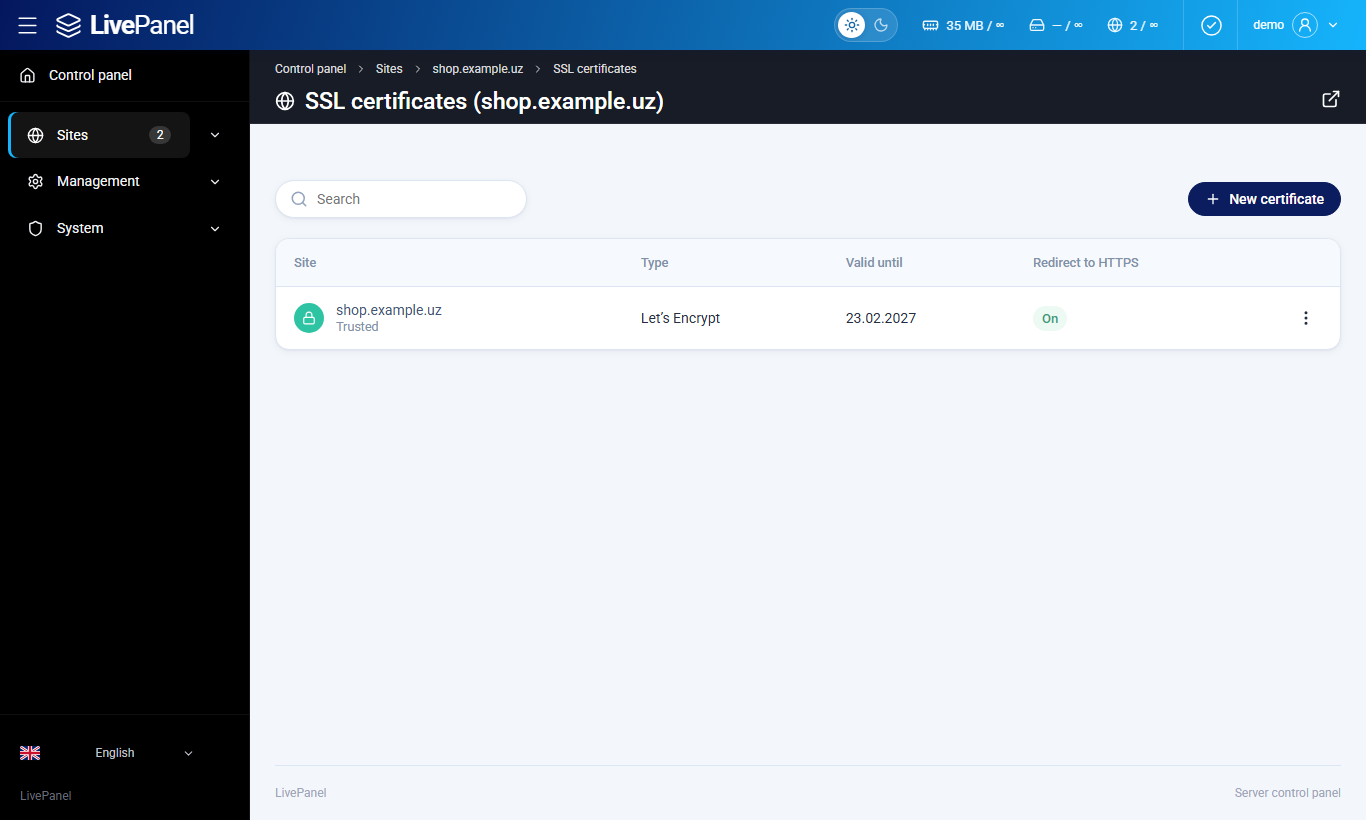
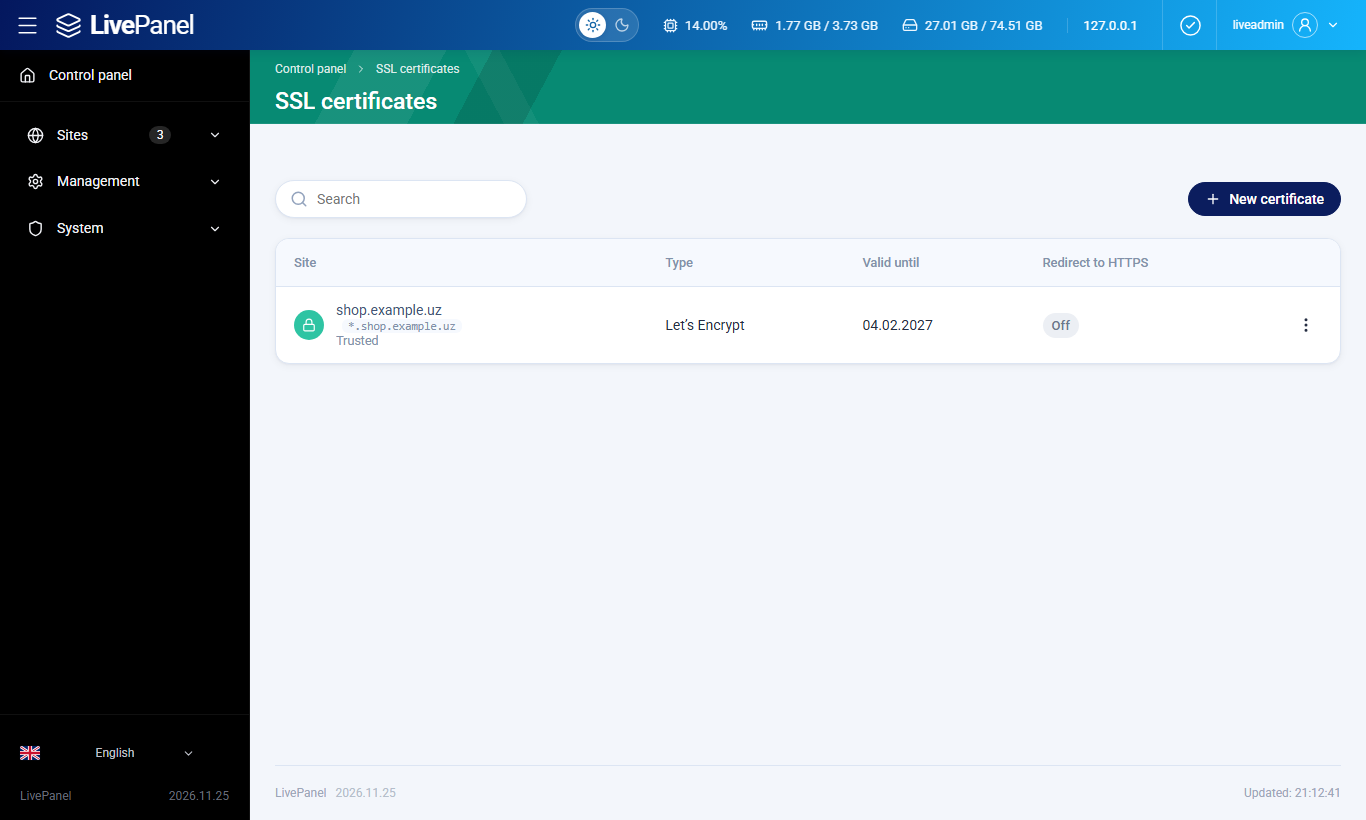
What's new page; wildcard SSL and DNSSEC pictures; license key protection; new API tokens picture

diff --git a/ru/whats-new.md b/ru/whats-new.md
@@ -1,0 +1,26 @@
+# Что нового
+
+LivePanel обновляется автоматически (проверка каждые 6 часов и при входе администратора). Номер версии — дата и время (UTC): `YYYY.MM.DD.HHMM`. Текущая версия видна внизу меню панели. Здесь последние изменения — новые сверху.
+
+## 2026.11.26.1605 — Статистика сайта
+
+- **Отчёт о посещениях** (GoAccess) снова открывается: раньше страница бесконечно показывала загрузку. Отчёт по-прежнему открывается изолированно от панели (sandbox) — [Статистика](statistics.md).
+
+## 2026.11.26.1523 — Wildcard SSL и DNSSEC
+
+- **Wildcard SSL (Premium)** — один сертификат Let’s Encrypt для домена и всех поддоменов (`example.uz` + `*.example.uz`). Панель сама добавляет и удаляет проверочную TXT-запись в DNS-зоне, сертификат продлевается автоматически — [SSL-сертификаты](ssl.md#wildcard-сертификат-premium).
+- **DNSSEC** — зона подписывается, панель показывает DS-запись для регистратора — [Домены и DNS](dns.md#dnssec).
+- API v2: `wildcard` в `POST /sites/ssl`, действие `dnssec` в `POST /dns` — [API v2](api-reference.md).
+
+## 2026.11.26.0718 — Защита лицензии
+
+- Ключ Free не может заменить активную лицензию Premium (`409 license_not_better`); для одного тарифа остаётся более долгий.
+- Убрана неработавшая «активация по коду»: платные ключи приходят сами после оплаты — [Лицензия и тарифы](license.md#как-защищены-ключи-лицензии).
+- livepanel.uz отдаёт ключ только серверу — владельцу лицензии.
+
+## 2026.11.25 — API v2
+
+- **API v2 (Premium)**: почти все возможности панели через API — сайты, файлы, базы, DNS, почта, FTP, cron, резервные копии, Git, аккаунты, лимиты, брендинг и сервер. 13 разделов, для каждого права «чтение» и «запись» — [API-токены](api-tokens.md), [Справочник API v2](api-reference.md).
+- Примеры на PHP, Node.js и Bash, файл OpenAPI: [openapi.json](https://wiki.livepanel.uz/openapi.json). Чтобы отдать документацию ИИ, на каждой странице есть кнопка «Копировать для ИИ» и ссылка `.md`.
+- Файловый менеджер: создание существующей папки отвечает `file_exists`; при загрузке `overwrite=1` заменяет файл.
+- Подключение резервного хранилища (Google Drive, Dropbox) возвращается только на собственный адрес панели.

diff --git a/uz/whats-new.md b/uz/whats-new.md
@@ -1,0 +1,26 @@
+# Yangiliklar
+
+LivePanel o‘zini avtomatik yangilaydi (har 6 soatda tekshiradi, administrator kirganda ham). Versiya raqami — sana va vaqt (UTC): `YYYY.MM.DD.HHMM`. Joriy versiya panel menyusining pastida ko‘rinadi. Bu sahifada oxirgi o‘zgarishlar — yangisi tepada.
+
+## 2026.11.26.1605 — Sayt statistikasi
+
+- **Tashriflar hisoboti** (GoAccess) yana ochiladi: oldin sahifa doim «yuklanmoqda» holatida qolardi. Hisobot avvalgidek paneldan ajratilgan (sandbox) holda ochiladi — [Statistika](statistics.md).
+
+## 2026.11.26.1523 — Wildcard SSL va DNSSEC
+
+- **Wildcard SSL (Premium)** — domen va barcha subdomenlari uchun bitta Let’s Encrypt sertifikati (`example.uz` + `*.example.uz`). Panel tekshiruv TXT yozuvini DNS zonasiga o‘zi qo‘shadi va o‘chiradi, sertifikat avtomatik yangilanadi — [SSL sertifikatlar](ssl.md#wildcard-sertifikat-premium).
+- **DNSSEC** — zona imzolanadi, panel registratorga qo‘yiladigan DS yozuvini ko‘rsatadi — [Domenlar va DNS](dns.md#dnssec).
+- API v2: `POST /sites/ssl` da `wildcard`, `POST /dns` da `dnssec` amali — [API v2](api-reference.md).
+
+## 2026.11.26.0718 — Litsenziya himoyasi
+
+- Free kaliti faol Premium litsenziyani almashtira olmaydi (`409 license_not_better`); bir tarifda muddati uzunrog‘i qoladi.
+- Ishlamaydigan «kod bilan faollashtirish» olib tashlandi: pullik kalitlar to‘lovdan keyin o‘zi keladi — [Litsenziya va tariflar](license.md#litsenziya-kalitlari-qanday-himoyalangan).
+- livepanel.uz kalitni faqat litsenziya egasi bo‘lgan serverga beradi.
+
+## 2026.11.25 — API v2
+
+- **API v2 (Premium)**: paneldagi deyarli hamma imkoniyat API orqali — saytlar, fayllar, bazalar, DNS, pochta, FTP, cron, zaxira, Git, akkauntlar, limitlar, brending va server. 13 bo‘lim, har biri uchun «o‘qish» va «yozish» ruxsati — [API tokenlar](api-tokens.md), [API v2 ma’lumotnomasi](api-reference.md).
+- PHP, Node.js va Bash misollari, OpenAPI fayli: [openapi.json](https://wiki.livepanel.uz/openapi.json). Hujjatni sun’iy intellektga berish uchun har sahifada «AI uchun nusxalash» tugmasi va `.md` havolasi bor.
+- Fayl menejeri: mavjud papka yaratilsa `file_exists`; yuklashda `overwrite=1` bilan faylni almashtirish mumkin.
+- Zaxira (Google Drive, Dropbox) ulanishi faqat panelning o‘z manziliga qaytadi.

diff --git a/ru/license.md b/ru/license.md
@@ -12,6 +12,7 @@
 | Сайты, базы, почта, SSL, резервные копии, Git и все основные функции | ✅ | ✅ | ✅ |
 | Лимиты аккаунтов: домены, диск, RAM, базы, пользователи реселлера | — | ✅ | ✅ |
 | API автоматизации хостинга (токены) | — | — | ✅ |
+| Wildcard SSL-сертификат (`*.домен`) | — | — | ✅ |
 
 Актуальные цены: [livepanel.uz](https://livepanel.uz) → **Тарифы**.
 
@@ -29,6 +30,12 @@
 3. После оплаты лицензия **устанавливается в панель автоматически** — ключ вводить не нужно. Панель также сама получит её в течение нескольких минут.
 
 Лицензию можно смотреть, продлевать и управлять ею в разделе **Ключи** личного кабинета livepanel.uz.
+
+## Как защищены ключи лицензии
+
+- **Ввода ключа или активации по коду нет.** Платная лицензия после оплаты сама приходит в панель с livepanel.uz; панель также сама запрашивает её в течение нескольких минут. Кнопка в панели активирует только тариф **Free**.
+- **Младший тариф не заменяет старший.** Если в панели активен Premium, ключ Free или Pro не может его заменить (панель ответит «У панели уже есть лицензия лучше»). Для одного тарифа остаётся ключ с более долгим сроком.
+- **Ключ выдаётся только своему серверу.** livepanel.uz отдаёт ключ только на IP-адрес сервера, к которому привязана лицензия, или на адрес сервера, указанный при покупке. Знания ID установки для получения ключа недостаточно.
 
 ## Когда срок заканчивается
 

diff --git a/en/whats-new.md b/en/whats-new.md
@@ -1,0 +1,26 @@
+# What’s new
+
+LivePanel updates itself (it checks every 6 hours and when an administrator signs in). The version number is the date and time (UTC): `YYYY.MM.DD.HHMM`. The current version is shown at the bottom of the panel menu. This page lists the latest changes, newest first.
+
+## 2026.11.26.1605 — Site statistics
+
+- The **visitor report** (GoAccess) opens again: before, the page kept showing the loading spinner. The report still opens isolated from the panel (sandbox) — [Statistics](statistics.md).
+
+## 2026.11.26.1523 — Wildcard SSL and DNSSEC
+
+- **Wildcard SSL (Premium)** — one Let’s Encrypt certificate for the domain and all its subdomains (`example.uz` + `*.example.uz`). The panel adds and removes the check TXT record in the DNS zone itself; the certificate renews by itself — [SSL certificates](ssl.md#wildcard-certificate-premium).
+- **DNSSEC** — the zone is signed and the panel shows the DS record for the registrar — [Domains and DNS](dns.md#dnssec).
+- API v2: `wildcard` in `POST /sites/ssl`, the `dnssec` action of `POST /dns` — [API v2](api-reference.md).
+
+## 2026.11.26.0718 — License protection
+
+- A Free key cannot replace an active Premium license (`409 license_not_better`); within a plan the longer key stays.
+- The “activate with a code” path, which never worked, is gone: paid keys arrive by themselves after payment — [License and plans](license.md#how-license-keys-are-protected).
+- livepanel.uz hands a key only to the server that owns the license.
+
+## 2026.11.25 — API v2
+
+- **API v2 (Premium)**: almost everything the panel does, through the API — sites, files, databases, DNS, mail, FTP, cron, backups, Git, accounts, limits, branding and the server. 13 areas, each with “read” and “write” permissions — [API tokens](api-tokens.md), [API v2 reference](api-reference.md).
+- PHP, Node.js and Bash examples and an OpenAPI file: [openapi.json](https://wiki.livepanel.uz/openapi.json). To hand the docs to an AI, every page has a “Copy for AI” button and a `.md` link.
+- File manager: creating a folder that exists answers `file_exists`; uploads replace a file with `overwrite=1`.
+- Backup storage sign-in (Google Drive, Dropbox) returns only to the panel’s own address.

diff --git a/uz/license.md b/uz/license.md
@@ -12,6 +12,7 @@ Panel ishlashi uchun shu o‘rnatishga tegishli litsenziya kerak. Litsenziya liv
 | Saytlar, bazalar, pochta, SSL, zaxira, Git va boshqa barcha asosiy funksiyalar | ✅ | ✅ | ✅ |
 | Akkauntlar bo‘yicha domen, disk, RAM, baza va reseller limitlari | — | ✅ | ✅ |
 | Hosting avtomatizatsiyasi API (tokenlar) | — | — | ✅ |
+| Wildcard SSL sertifikat (`*.domen`) | — | — | ✅ |
 
 Joriy narxlar: [livepanel.uz](https://livepanel.uz) → **Narxlar**.
 
@@ -29,6 +30,12 @@ Joriy narxlar: [livepanel.uz](https://livepanel.uz) → **Narxlar**.
 3. To‘lovdan so‘ng litsenziya panelga **avtomatik o‘rnatiladi**, kalit kiritish shart emas. Panel uni bir necha daqiqada o‘zi ham tekshirib oladi.
 
 Litsenziyani livepanel.uz kabinetidagi **Kalitlar** bo‘limidan ham ko‘rasiz, uzaytirasiz va boshqarasiz.
+
+## Litsenziya kalitlari qanday himoyalangan
+
+- **Kalit kiritish yoki kod bilan faollashtirish yo‘q.** Pullik litsenziya to‘lovdan keyin livepanel.uz’dan panelga o‘zi keladi; panel ham uni bir necha daqiqada o‘zi so‘rab oladi. Paneldagi tugma faqat **Free** tarifini faollashtiradi.
+- **Past tarif yuqorisini almashtirmaydi.** Panelda faol Premium bo‘lsa, Free yoki Pro kaliti uni almashtira olmaydi (panel «Panelda allaqachon yaxshiroq litsenziya bor» deydi). Bir xil tarifda esa muddati uzunroq kalit qoladi.
+- **Kalit faqat o‘z serveriga beriladi.** livepanel.uz kalitni faqat litsenziya bog‘langan server IP manziliga, yoki sotib olishda ko‘rsatilgan server manziliga beradi. O‘rnatish ID’sini bilish kalitni olish uchun yetmaydi.
 
 ## Muddat tugasa
 

diff --git a/en/license.md b/en/license.md
@@ -12,6 +12,7 @@ The panel needs a license for this installation. Licenses are issued at livepane
 | Sites, databases, mail, SSL, backups, Git and all other core features | ✅ | ✅ | ✅ |
 | Per-account limits on domains, disk, RAM, databases and reseller users | — | ✅ | ✅ |
 | Hosting automation API (tokens) | — | — | ✅ |
+| Wildcard SSL certificate (`*.domain`) | — | — | ✅ |
 
 Current prices: [livepanel.uz](https://livepanel.uz) → **Pricing**.
 
@@ -29,6 +30,12 @@ Current prices: [livepanel.uz](https://livepanel.uz) → **Pricing**.
 3. After payment the license is **installed in the panel automatically** — no key to enter. The panel also picks it up by itself within a few minutes.
 
 You can also see, renew and manage the license in the **Keys** section of your livepanel.uz account.
+
+## How license keys are protected
+
+- **No key to type, no activation code.** A paid license arrives in the panel from livepanel.uz by itself after payment; the panel also asks for it on its own within a few minutes. The button in the panel activates the **Free** plan only.
+- **A lower plan never replaces a higher one.** While Premium is active, a Free or Pro key cannot replace it (the panel says “This panel already has a better license”). Within the same plan, the key that runs longer stays.
+- **A key goes only to its own server.** livepanel.uz hands a key only to the IP address the license is bound to, or to the server address given at purchase. Knowing the installation ID is not enough to get a key.
 
 ## When it expires
 

diff --git a/ru/dns.md b/ru/dns.md
@@ -49,6 +49,8 @@
 
 ## DNSSEC
 
+![DNSSEC](../images/dnssec.png)
+
 DNSSEC подписывает ответы зоны: резолверы проверяют, что ответ действительно пришёл с этого сервера, и подделать DNS-ответ не получится.
 
 1. На странице зоны в карточке **DNSSEC** нажмите **Включить DNSSEC**. BIND сам создаёт ключ (ECDSA P-256) и подписывает зону. Каждое изменение тоже подписывается автоматически.

diff --git a/uz/dns.md b/uz/dns.md
@@ -49,6 +49,8 @@ Har saqlashda zona **seriya raqami** o‘zi oshadi. **«Zonani o‘chirish»** z
 
 ## DNSSEC
 
+![DNSSEC](../images/dnssec.png)
+
 DNSSEC zonaning javoblarini raqamli imzolaydi: resolverlar javob haqiqatan shu serverdan kelganini tekshiradi va hech kim DNS javobini soxtalashtira olmaydi.
 
 1. Zona sahifasida **DNSSEC** kartasida **DNSSEC’ni yoqish** tugmasini bosing. BIND kalitni o‘zi yaratadi (ECDSA P-256) va zonani imzolaydi. Har bir o‘zgarish ham avtomatik imzolanadi.

diff --git a/ru/ssl.md b/ru/ssl.md
@@ -28,6 +28,8 @@ SSL-сертификат шифрует трафик между сайтом и 
 
 ## Wildcard-сертификат (Premium)
 
+![Wildcard-сертификат](../images/ssl-wildcard.png)
+
 Wildcard-сертификат — один сертификат для самого домена и **всех его поддоменов**: `example.uz` и `*.example.uz`. Доступен только в панелях с лицензией **Premium**.
 
 Условия:

diff --git a/en/dns.md b/en/dns.md
@@ -49,6 +49,8 @@ The zone **serial number** grows on every save. **Delete zone** removes the zone
 
 ## DNSSEC
 
+![DNSSEC](../images/dnssec.png)
+
 DNSSEC signs the zone’s answers: resolvers check that an answer really came from this server, so nobody can forge a DNS answer.
 
 1. On the zone page, in the **DNSSEC** card, click **Turn on DNSSEC**. BIND makes the key (ECDSA P-256) and signs the zone. Every change is signed automatically too.

diff --git a/en/ssl.md b/en/ssl.md
@@ -28,6 +28,8 @@ The table shows the site, type, validity and the HTTPS redirect. The row menu ha
 
 ## Wildcard certificate (Premium)
 
+![Wildcard certificate](../images/ssl-wildcard.png)
+
 A wildcard certificate is one certificate for the domain itself and **all its subdomains**: `example.uz` and `*.example.uz`. It is available only on panels with a **Premium** license.
 
 Requirements:
